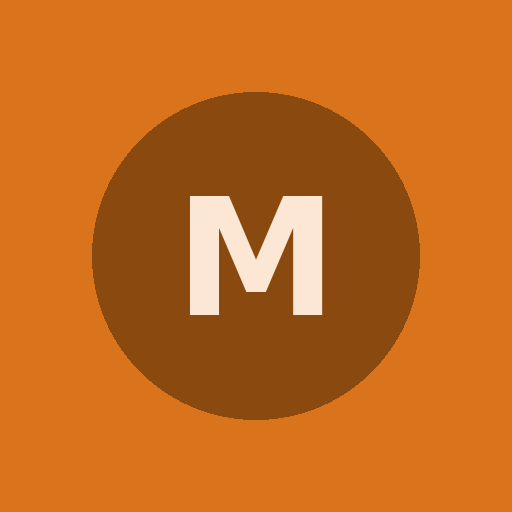
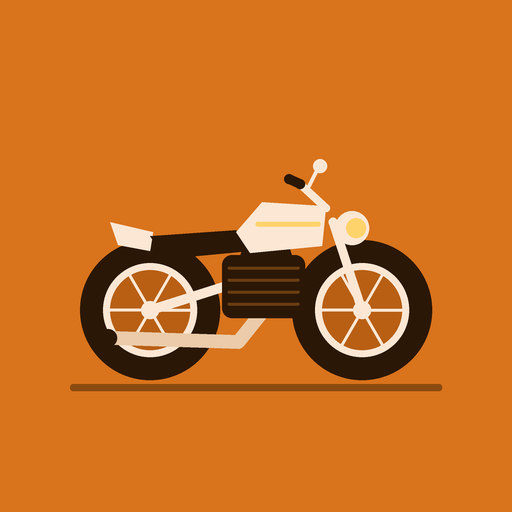
Add files via upload

diff --git a/index.html b/index.html
@@ -33,7 +33,8 @@
   .stat p:first-child{font-size:12px;color:var(--text-2);margin:0 0 4px;}
   .stat p:last-child{font-size:19px;font-weight:600;margin:0;}
   .card{background:var(--card);border:0.5px solid var(--border);border-radius:14px;padding:1rem 1.1rem;margin-bottom:1.25rem;}
-  .card h2{font-size:15px;font-weight:600;margin:0 0 12px;}
+  .card h2{font-size:15px;font-weight:600;margin:0;}
+  .card-head{display:flex;justify-content:space-between;align-items:center;margin-bottom:12px;}
   .row{display:grid;grid-template-columns:1fr 1fr;gap:10px;margin-bottom:10px;}
   label{font-size:12px;color:var(--text-2);display:block;margin-bottom:3px;}
   input{
@@ -48,12 +49,21 @@
   button:active{opacity:0.85;}
   .err{font-size:12px;color:var(--danger);margin:8px 0 0;display:none;}
   .history{border:0.5px solid var(--border);border-radius:12px;overflow:hidden;}
-  .hrow{display:flex;justify-content:space-between;align-items:center;padding:10px 12px;font-size:13px;border-top:0.5px solid var(--border);}
+  .hrow{display:flex;justify-content:space-between;align-items:center;padding:10px 12px;font-size:13px;border-top:0.5px solid var(--border);gap:8px;}
   .hrow:first-child{border-top:none;}
-  .hrow .date{color:var(--text-2);}
-  .hrow .km{color:var(--text-2);}
-  .hrow .cons{font-weight:600;}
+  .hrow .date{color:var(--text-2);flex-shrink:0;}
+  .hrow .km{color:var(--text-2);flex-shrink:0;}
+  .hrow .cons{font-weight:600;flex-shrink:0;}
   .empty{font-size:13px;color:var(--text-2);padding:1rem;margin:0;}
+  .del-btn{
+    width:26px;height:26px;min-width:26px;border-radius:50%;background:transparent;
+    border:1px solid var(--border);color:var(--danger);font-size:14px;font-weight:700;
+    display:flex;align-items:center;justify-content:center;padding:0;margin:0;cursor:pointer;
+  }
+  .reset-link{
+    width:auto;height:auto;background:none;color:var(--danger);font-size:12px;font-weight:500;
+    text-decoration:underline;padding:0;margin:0;
+  }
 </style>
 </head>
 <body>
@@ -68,7 +78,7 @@
 
 <div class="card">
   <h2>Nuevo repostaje</h2>
-  <div class="row">
+  <div class="row" style="margin-top:12px;">
     <div>
       <label>Fecha</label>
       <input type="date" id="in-date" />
@@ -85,7 +95,10 @@
 </div>
 
 <div class="card">
-  <h2>Historial</h2>
+  <div class="card-head">
+    <h2>Historial</h2>
+    <button class="reset-link" id="reset-btn">Borrar todo</button>
+  </div>
   <div class="history" id="history">
     <p class="empty" id="empty">Todavía no hay repostajes. Añade el primero para calcular el consumo.</p>
   </div>
@@ -99,6 +112,8 @@ const $ = id => document.getElementById(id);
 $('in-date').value = new Date().toISOString().slice(0,10);
 
 function fmt1(n){ return (Math.round(n*10)/10).toLocaleString('es-ES'); }
+
+function persist(){ localStorage.setItem(KEY, JSON.stringify(entries)); }
 
 function render(){
   const sorted = [...entries].sort((a,b)=>a.km-b.km);
@@ -128,8 +143,18 @@ function render(){
     el.className='hrow';
     el.innerHTML = `<span class="date">${r.date}</span>
       <span class="km">${Math.round(r.dKm)} km · ${fmt1(r.liters)} L</span>
-      <span class="cons">${fmt1(r.cons)} L/100km</span>`;
+      <span class="cons">${fmt1(r.cons)} L/100km</span>
+      <button class="del-btn" data-km="${r.km}" title="Eliminar este repostaje">✕</button>`;
     hist.appendChild(el);
+  });
+
+  hist.querySelectorAll('.del-btn').forEach(btn=>{
+    btn.addEventListener('click', ()=>{
+      const km = parseFloat(btn.dataset.km);
+      entries = entries.filter(e=>e.km !== km);
+      persist();
+      render();
+    });
   });
 }
 
@@ -151,9 +176,17 @@ $('add-btn').addEventListener('click', ()=>{
   }
   err.style.display='none';
   entries.push({date, km, liters});
-  localStorage.setItem(KEY, JSON.stringify(entries));
+  persist();
   $('in-km').value=''; $('in-liters').value='';
   render();
+});
+
+$('reset-btn').addEventListener('click', ()=>{
+  if(confirm('¿Borrar todos los repostajes? Esta acción no se puede deshacer.')){
+    entries = [];
+    persist();
+    render();
+  }
 });
 
 render();

diff --git a/service-worker.js b/service-worker.js
@@ -1,4 +1,4 @@
-const CACHE = 'moto-app-v1';
+const CACHE = 'moto-app-v2';
 const FILES = ['./index.html', './manifest.json', './icons/icon-192.png', './icons/icon-512.png'];
 
 self.addEventListener('install', e => {
@@ -14,7 +14,14 @@ self.addEventListener('activate', e => {
 });
 
 self.addEventListener('fetch', e => {
+  if (e.request.method !== 'GET') return;
   e.respondWith(
-    caches.match(e.request).then(res => res || fetch(e.request))
+    fetch(e.request)
+      .then(res => {
+        const copy = res.clone();
+        caches.open(CACHE).then(c => c.put(e.request, copy));
+        return res;
+      })
+      .catch(() => caches.match(e.request))
   );
 });
